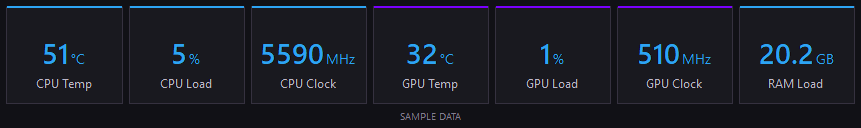
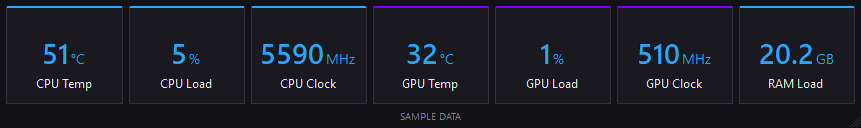
Brighten metric labels and branding for v0.1.5

diff --git a/src/DlbPrecision.Monitor/WidgetRenderer.cs b/src/DlbPrecision.Monitor/WidgetRenderer.cs
@@ -15,7 +15,7 @@ namespace DlbPrecision.Monitor
         public static readonly Color Surface = Color.FromArgb(25, 25, 31);
         public static readonly Color Blue = ColorTranslator.FromHtml("#2DA4F4");
         public static readonly Color Purple = ColorTranslator.FromHtml("#7B00FF");
-        private static readonly Color Label = Color.FromArgb(189, 184, 201);
+        private static readonly Color Label = Color.FromArgb(235, 235, 235);
         private static readonly Color Muted = Color.FromArgb(131, 125, 145);
         private static readonly Color Border = Color.FromArgb(53, 49, 63);
         private static readonly string[] Labels = { "CPU Temp", "CPU Load", "CPU Clock", "GPU Temp", "GPU Load", "GPU Clock", "RAM Load" };
@@ -94,7 +94,7 @@ namespace DlbPrecision.Monitor
                 using (var actualFont = new Font("Segoe UI", 9.2f * dpiScale, FontStyle.Regular, GraphicsUnit.Pixel))
                 {
                     // Pixel fonts keep this quiet footer consistent with the custom DPI-scaled tile layout.
-                    TextRenderer.DrawText(graphics, footerText, actualFont, textBounds, Muted, TextFormatFlags.HorizontalCenter | TextFormatFlags.VerticalCenter | TextFormatFlags.EndEllipsis | TextFormatFlags.NoPadding | TextFormatFlags.SingleLine);
+                    TextRenderer.DrawText(graphics, footerText, actualFont, textBounds, sample || !string.IsNullOrEmpty(status) ? Muted : Label, TextFormatFlags.HorizontalCenter | TextFormatFlags.VerticalCenter | TextFormatFlags.EndEllipsis | TextFormatFlags.NoPadding | TextFormatFlags.SingleLine);
                 }
             }
             if (!settings.PositionLocked)

diff --git a/README.md b/README.md
@@ -8,13 +8,19 @@ Appearance preview with sample data. The widget also supports a resizable vertic
 
 ## Install
 
-**[Download DLB Precision Monitor for Windows 11](https://github.com/dlbprecision/dlb-precision-monitor/releases/download/v0.1.4/DLB-Precision-Monitor-0.1.4-Setup.exe)**
+**[Download DLB Precision Monitor for Windows 11](https://github.com/dlbprecision/dlb-precision-monitor/releases/download/v0.1.5/DLB-Precision-Monitor-0.1.5-Setup.exe)**
 
-**v0.1.4 fixes the installer stopping at the PawnIO dependency check.** Setup checks the actual driver, starts an existing stopped driver, and uses the included official driver installer when installation or restoration is needed. Setup, the uninstaller and DLB's application files carry DLB Precision, LLC signatures and timestamps. It remains a prerelease for testing. No GitHub account is needed. Download only the setup EXE; the `.sha256` file on the [release page](https://github.com/dlbprecision/dlb-precision-monitor/releases/tag/v0.1.4) is an optional checksum, not another installer.
+**v0.1.5 brightens the metric labels and small DLB Precision branding.** It includes the bundled driver setup improvements from v0.1.4. Setup, the uninstaller and DLB's application files carry DLB Precision, LLC signatures and timestamps. It remains a prerelease for testing. No GitHub account is needed. Download only the setup EXE; the `.sha256` file on the [release page](https://github.com/dlbprecision/dlb-precision-monitor/releases/tag/v0.1.5) is an optional checksum, not another installer.
 
 1. Download the setup using the link above. If your browser says it **isn't commonly downloaded**, open its Downloads list and choose **Keep** / **Keep anyway**, if offered, for this DLB download.
 2. Double-click the downloaded setup. If Windows says **Windows protected your PC** and describes an **unrecognized app**, choose **More info**, then **Run anyway**, only if you trust this official DLB pilot download.
 3. Check that the Windows administrator prompt names **DLB Precision, LLC**, choose **Yes**, then follow setup. The single installer includes the widget, sensor service, application libraries, and signed PawnIO setup if needed; no separate hardware-monitoring program or driver download is required. A desktop shortcut is selected by default on fresh installations.
+
+**Updating an existing installation:** download the current setup EXE above,
+right-click the monitor and choose **Exit**, then run the new setup. There is no
+need to uninstall first. Setup upgrades the existing installation and keeps your
+saved settings. Open the monitor from its desktop shortcut afterward. Updates
+are installed manually; the app does not have an automatic updater.
 
 If setup requests a Windows restart before it can finish the driver step, restart
 and run the same DLB installer again. Working shared PawnIO installations are
@@ -66,7 +72,7 @@ dotnet build DlbPrecision.sln -c Release
 .\scripts\Test.ps1
 .\scripts\Test.ps1 -Integration # Requires installed sensor service
 .\scripts\Test-Installer.ps1 # Compiled prerequisite scenarios; no driver changes
-.\scripts\Build-Installer.ps1 -Version 0.1.4 -OutputDirectory .\artifacts\unsigned-0.1.4-attempt-1
+.\scripts\Build-Installer.ps1 -Version 0.1.5 -OutputDirectory .\artifacts\unsigned-0.1.5-attempt-1
 ```
 
 The build script pins and verifies downloaded build tools and driver payloads. It includes dependency license notices, exact versions, hashes, and required source material. It does not install the app. The command above makes an **unsigned local build**; release signing is opt-in and requires DLB's approved signing profile. See [installer build instructions](installer/README.md) and [code-signing instructions](docs/CODE-SIGNING.md). Use a new output directory for each attempt; existing installer files and checksums are never overwritten.

diff --git a/docs/VALIDATION.md b/docs/VALIDATION.md
@@ -5,6 +5,36 @@ Dates use America/Chicago.
 
 Test machine: Windows 11 Pro x64, Ryzen 9 9950X3D, NVIDIA GeForce RTX 5090, approximately 96 GB physical RAM. Existing signed PawnIO 2.2.0 was preserved.
 
+## September 13 v0.1.5 brighter labels
+
+All seven metric captions and the small DLB Precision footer now use neutral
+white `#EBEBEB`. The existing renderer handles both orientations; the change
+does not add dependencies, polling, or timers.
+
+- The existing application checks passed: **22** client/integration, **15**
+  sensor-selection and **40** widget checks. Builds had zero warnings/errors.
+- Horizontal, vertical, minimum-size and 150%-DPI renders were visually checked.
+  A separate invocation of the existing renderer exercised the branding footer
+  with sample readings, because the regular preview command replaces branding
+  with a SAMPLE DATA marker. Labels and branding were readable without clipping;
+  unavailable readings and status messages retained their muted color.
+- The signed v0.1.5 installer passed build-time publisher and timestamp checks,
+  including its embedded uninstaller and four first-party binaries. Its SHA256 is
[1 lines of base64/hex data omitted]
+- The office PC upgrade from v0.1.4 completed with exit code **0**, all four service
+  configuration commands returned **0**, and no restart was needed. The installed
+  widget was reopened and responded normally.
+- Independent installed verification passed: all **19** runtime hashes and the
+  manifest matched the signed stage. The four DLB binaries reported **0.1.5.0**;
+  those files and the uninstaller had valid, timestamped **DLB Precision, LLC**
+  signatures. The installed widget passed **40** smoke checks. A fresh before/after
+  comparison confirmed identical settings-file hashes and an unchanged Windows
+  startup entry. The working shared PawnIO driver was preserved. Setup is
+  **7,433,088 bytes**.
+
+This is an appearance change. No new performance measurement or additional
+hardware, game, clean-install, or reboot testing is claimed.
+
 ## September 9 v0.1.4 installer prerequisite checks
 
 The reported v0.1.3 setup screen stopped before installing the application because

diff --git a/docs/releases/v0.1.5.md b/docs/releases/v0.1.5.md
@@ -1,0 +1,21 @@
+# DLB Precision Monitor v0.1.5
+
+The CPU Temp, CPU Load, CPU Clock, GPU Temp, GPU Load, GPU Clock and RAM Load
+labels now use a brighter neutral white. The small optional DLB Precision
+branding uses the same white. Font sizes, layout, transparency and DLB's blue
+and purple colors stay the same.
+
+To update, download **DLB-Precision-Monitor-0.1.5-Setup.exe**, right-click the
+monitor and choose **Exit**, then run setup. You do not need to uninstall first;
+your saved settings are retained. Reopen the monitor from its desktop shortcut.
+This single installer includes the application, sensor service, libraries and
+official signed PawnIO setup, with the installation improvements from v0.1.4.
+The `.sha256` file is an optional checksum, not another installer.
+
+Setup and DLB's application files are signed and timestamped as **DLB Precision,
+LLC**. The existing automated checks passed, and the brighter labels and branding
+were visually checked in both orientations, at minimum size and at 150% DPI.
+The office PC upgraded successfully without a restart.
+
+This remains a pilot release. See the [validation record](https://github.com/dlbprecision/dlb-precision-monitor/blob/main/docs/VALIDATION.md)
+for completed checks and outstanding hardware and installation coverage.
